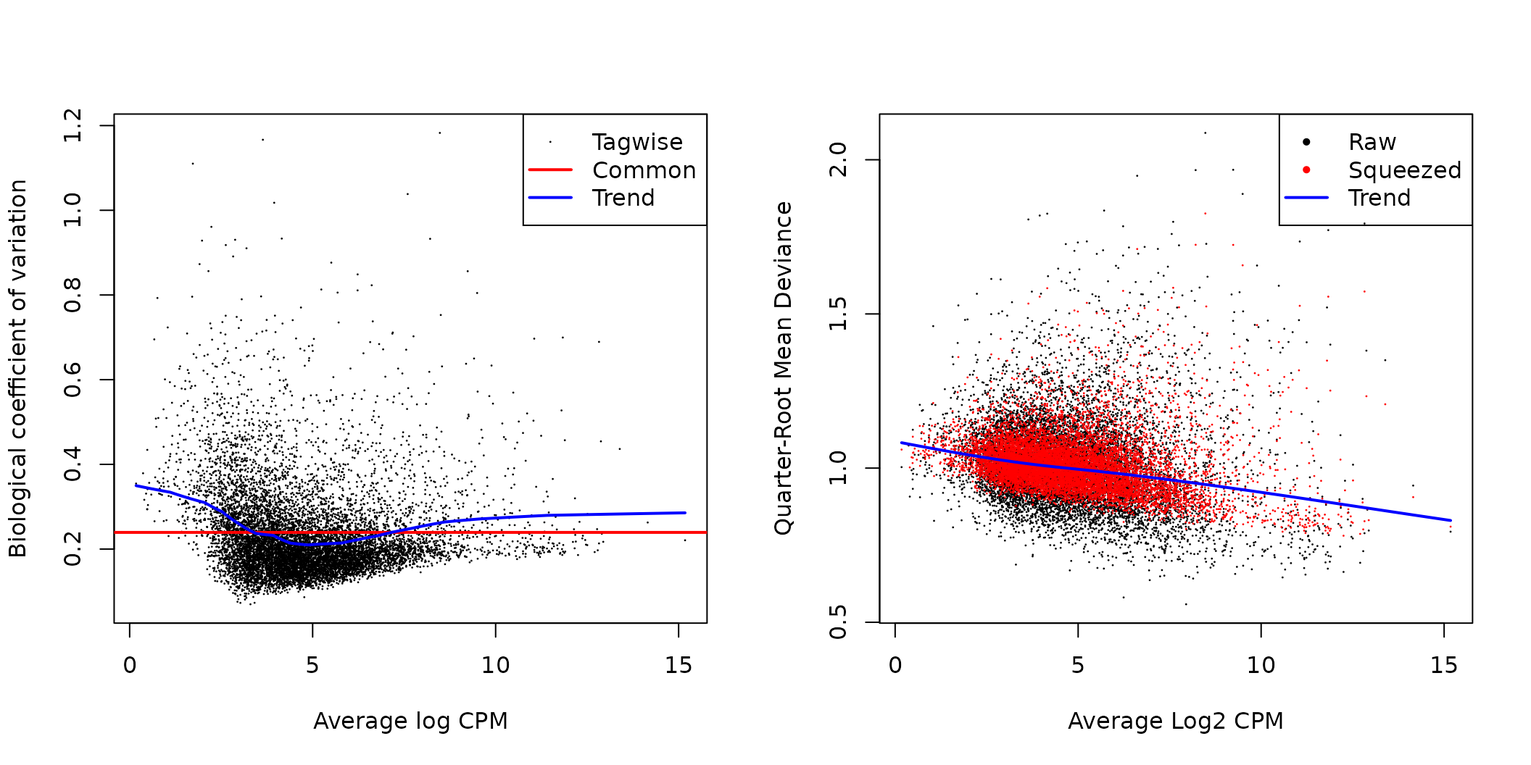
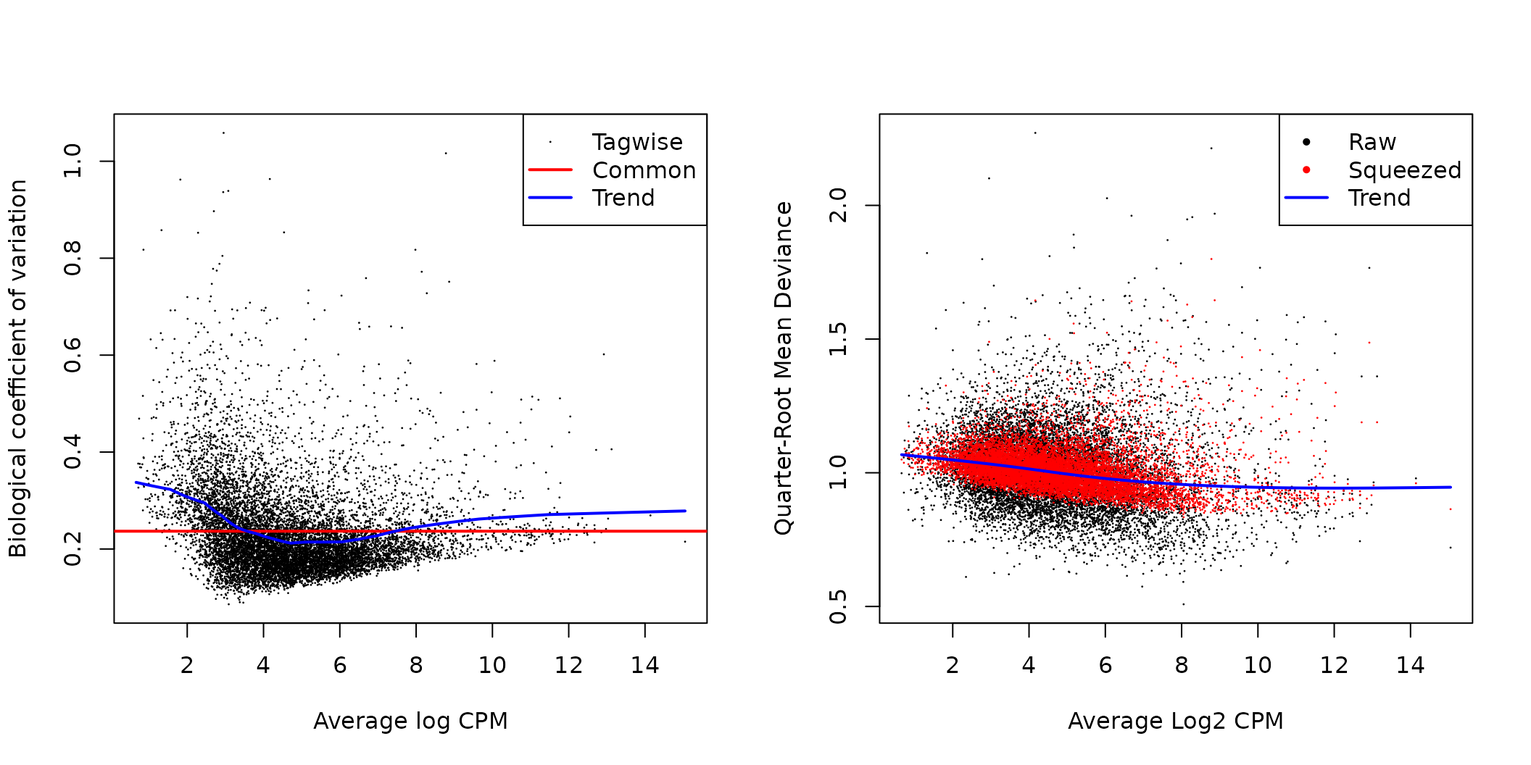
Deploying to gh-pages from  @ f5edb9699acd4cd2dddc85dbb320383b10131da0 🚀

diff --git a/articles/SingleCellWorkshop.html b/articles/SingleCellWorkshop.html
@@ -31,7 +31,7 @@
       </button>
       <span class="navbar-brand">
         <a class="navbar-link" href="../index.html">SingleCellWorkshop</a>
-        <span class="version label label-default" data-toggle="tooltip" data-placement="bottom" title="Released version">0.1.17</span>
+        <span class="version label label-default" data-toggle="tooltip" data-placement="bottom" title="Released version">0.1.18</span>
       </span>
     </div>
 
@@ -76,7 +76,7 @@
       Walter and Eliza Hall Institute of Medical Research, 1G Royal Parade, Parkville, VIC 3052, Melbourne, Australia<br><a class="author_email" href="mailto:#"></a><a href="mailto:yuchen@wehi.edu.au" class="email">yuchen@wehi.edu.au</a>
       </address>
                   
-            <h4 class="date">Aug 17, 2021</h4>
+            <h4 class="date">Aug 21, 2021</h4>
       
       <small class="dont-index">Source: <a href="https://github.com/yunshun/SingleCellWorkshop/blob/master/vignettes/SingleCellWorkshop.Rmd"><code>vignettes/SingleCellWorkshop.Rmd</code></a></small>
       <div class="hidden name"><code>SingleCellWorkshop.Rmd</code></div>
@@ -104,21 +104,20 @@
 <div id="downloading-the-read-counts" class="section level2">
 <h2 class="hasAnchor">
 <a href="#downloading-the-read-counts" class="anchor"></a>Downloading the read counts</h2>
-<p>In this workshop, we will be using five samples from this published study <span class="citation">(Pal et al. 2021)</span>. These five samples correspond to five individual patients with the following Ids: N1469, N0280, N1105, N0230 and N0123. The accession numbers of the five samples are GSM4909258, GSM4909255, GSM4909260, GSM4909264 and GSM4909267, respectively.</p>
+<p>In this workshop, we will be using four samples from this published study <span class="citation">(Pal et al. 2021)</span>. These four samples correspond to four individual patients with the following Ids: N1469, N0280, N0230 and N0123. The accession numbers of the four samples are GSM4909258, GSM4909255, GSM4909264 and GSM4909267, respectively.</p>
 <p>We first create a <code>Data</code> folder under the current working directory. Then we make five subfolders with the patient Ids as the folder names under the <code>Data</code> folder.</p>
 <div class="sourceCode" id="cb1"><pre class="downlit sourceCode r">
-<code class="sourceCode R"><span class="va">Samples</span> <span class="op">&lt;-</span> <span class="fu"><a href="https://rdrr.io/r/base/c.html">c</a></span><span class="op">(</span><span class="st">"N1469"</span>, <span class="st">"N0280"</span>, <span class="st">"N1105"</span>, <span class="st">"N0230"</span>, <span class="st">"N0123"</span><span class="op">)</span>
+<code class="sourceCode R"><span class="va">Samples</span> <span class="op">&lt;-</span> <span class="fu"><a href="https://rdrr.io/r/base/c.html">c</a></span><span class="op">(</span><span class="st">"N1469"</span>, <span class="st">"N0280"</span>, <span class="st">"N0230"</span>, <span class="st">"N0123"</span><span class="op">)</span>
 <span class="kw">for</span><span class="op">(</span><span class="va">i</span> <span class="kw">in</span> <span class="fl">1</span><span class="op">:</span><span class="fu"><a href="https://rdrr.io/r/base/length.html">length</a></span><span class="op">(</span><span class="va">Samples</span><span class="op">)</span><span class="op">)</span><span class="op">{</span>
     <span class="va">out_dir</span>  <span class="op">&lt;-</span> <span class="fu"><a href="https://rdrr.io/r/base/file.path.html">file.path</a></span><span class="op">(</span><span class="st">"Data"</span>, <span class="va">Samples</span><span class="op">[</span><span class="va">i</span><span class="op">]</span><span class="op">)</span>
     <span class="kw">if</span> <span class="op">(</span><span class="op">!</span><span class="fu"><a href="https://rdrr.io/r/base/files2.html">dir.exists</a></span><span class="op">(</span><span class="va">out_dir</span><span class="op">)</span><span class="op">)</span> <span class="fu"><a href="https://rdrr.io/r/base/files2.html">dir.create</a></span><span class="op">(</span><span class="va">out_dir</span>, recursive <span class="op">=</span> <span class="cn">TRUE</span><span class="op">)</span>
 <span class="op">}</span></code></pre></div>
-<p>The cellranger output of each sample consists of three data files: a count matrix in <em>mtx.gz</em> format, barcode information in <em>tsv.gz</em> format, and feature information in <em>tsv.gz</em>. We download the three data files from GEO for each of the five samples and store them in each of the subfolders accordingly.</p>
+<p>The cellranger output of each sample consists of three data files: a count matrix in <em>mtx.gz</em> format, barcode information in <em>tsv.gz</em> format, and feature information in <em>tsv.gz</em>. We download the three data files from GEO for each of the four samples and store them in each of the subfolders accordingly.</p>
 <div class="sourceCode" id="cb2"><pre class="downlit sourceCode r">
 <code class="sourceCode R"><span class="va">GSM</span> <span class="op">&lt;-</span> <span class="st">"https://ftp.ncbi.nlm.nih.gov/geo/samples/GSM4909nnn/"</span>
 <span class="va">url.matrix</span> <span class="op">&lt;-</span> <span class="fu"><a href="https://rdrr.io/r/base/paste.html">paste0</a></span><span class="op">(</span><span class="va">GSM</span>, 
     <span class="fu"><a href="https://rdrr.io/r/base/c.html">c</a></span><span class="op">(</span><span class="st">"GSM4909258/suppl/GSM4909258_N-NF-Epi-matrix.mtx.gz"</span>,
       <span class="st">"GSM4909255/suppl/GSM4909255_N-N280-Epi-matrix.mtx.gz"</span>, 
-      <span class="st">"GSM4909260/suppl/GSM4909260_N-N1105-Epi-matrix.mtx.gz"</span>,
       <span class="st">"GSM4909264/suppl/GSM4909264_N-N1B-Epi-matrix.mtx.gz"</span>,
       <span class="st">"GSM4909267/suppl/GSM4909267_N-MH0023-Epi-matrix.mtx.gz"</span><span class="op">)</span><span class="op">)</span>
 <span class="va">url.barcodes</span> <span class="op">&lt;-</span> <span class="fu"><a href="https://rdrr.io/r/base/grep.html">gsub</a></span><span class="op">(</span><span class="st">"matrix.mtx"</span>, <span class="st">"barcodes.tsv"</span>, <span class="va">url.matrix</span><span class="op">)</span>
@@ -407,9 +406,9 @@ Ternary plot positioning each cell according to the proportion of basal, LP, or 
 <div id="read-in-the-data-1" class="section level2">
 <h2 class="hasAnchor">
 <a href="#read-in-the-data-1" class="anchor"></a>Read in the data</h2>
-<p>We use 10X single cell RNA-seq profiles of normal epithelial cells from five individual human. We first read in the raw data of all five samples for the integration analysis.</p>
+<p>We use 10X single cell RNA-seq profiles of normal epithelial cells from four individual human. We first read in the raw data of all four samples for the integration analysis.</p>
 <div class="sourceCode" id="cb37"><pre class="downlit sourceCode r">
-<code class="sourceCode R"><span class="va">Samples</span> <span class="op">&lt;-</span> <span class="fu"><a href="https://rdrr.io/r/base/c.html">c</a></span><span class="op">(</span><span class="st">"N1469"</span>, <span class="st">"N0280"</span>, <span class="st">"N1105"</span>, <span class="st">"N0230"</span>, <span class="st">"N0123"</span><span class="op">)</span>
+<code class="sourceCode R"><span class="va">Samples</span> <span class="op">&lt;-</span> <span class="fu"><a href="https://rdrr.io/r/base/c.html">c</a></span><span class="op">(</span><span class="st">"N1469"</span>, <span class="st">"N0280"</span>, <span class="st">"N0230"</span>, <span class="st">"N0123"</span><span class="op">)</span>
 <span class="va">RawData</span> <span class="op">&lt;-</span> <span class="fu"><a href="https://rdrr.io/r/base/list.html">list</a></span><span class="op">(</span><span class="op">)</span>
 <span class="va">RawData</span><span class="op">[[</span><span class="fl">1</span><span class="op">]</span><span class="op">]</span> <span class="op">&lt;-</span> <span class="va">N1469.data</span>
 <span class="kw">for</span><span class="op">(</span><span class="va">i</span> <span class="kw">in</span> <span class="fl">2</span><span class="op">:</span><span class="fu"><a href="https://rdrr.io/r/base/length.html">length</a></span><span class="op">(</span><span class="va">Samples</span><span class="op">)</span><span class="op">)</span> <span class="op">{</span>
@@ -417,7 +416,7 @@ Ternary plot positioning each cell according to the proportion of basal, LP, or 
     <span class="fu"><a href="https://rdrr.io/r/base/colnames.html">colnames</a></span><span class="op">(</span><span class="va">RawData</span><span class="op">[[</span><span class="va">i</span><span class="op">]</span><span class="op">]</span><span class="op">)</span> <span class="op">&lt;-</span> <span class="fu"><a href="https://rdrr.io/r/base/paste.html">paste</a></span><span class="op">(</span><span class="va">Samples</span><span class="op">[</span><span class="va">i</span><span class="op">]</span>, <span class="fu"><a href="https://rdrr.io/r/base/colnames.html">colnames</a></span><span class="op">(</span><span class="va">RawData</span><span class="op">[[</span><span class="va">i</span><span class="op">]</span><span class="op">]</span><span class="op">)</span>, sep<span class="op">=</span><span class="st">"_"</span><span class="op">)</span>
 <span class="op">}</span>
 <span class="fu"><a href="https://rdrr.io/r/base/names.html">names</a></span><span class="op">(</span><span class="va">RawData</span><span class="op">)</span> <span class="op">&lt;-</span> <span class="va">Samples</span></code></pre></div>
-<p>Then we create a list of 5 Seurat objects (one for each human sample). The same cell filtering criteria is applied to all the samples.</p>
+<p>Then we create a list of four Seurat objects (one for each human sample). The same cell filtering criteria is applied to all the samples.</p>
 <div class="sourceCode" id="cb38"><pre class="downlit sourceCode r">
 <code class="sourceCode R"><span class="va">SeuratList</span> <span class="op">&lt;-</span> <span class="fu"><a href="https://rdrr.io/r/base/list.html">list</a></span><span class="op">(</span><span class="op">)</span>
 <span class="kw">for</span><span class="op">(</span><span class="va">i</span> <span class="kw">in</span> <span class="fl">1</span><span class="op">:</span><span class="fu"><a href="https://rdrr.io/r/base/length.html">length</a></span><span class="op">(</span><span class="va">Samples</span><span class="op">)</span><span class="op">)</span><span class="op">{</span>
@@ -472,18 +471,18 @@ UMAP visualization of the integrated data where cells are coloured by patient.
 <span class="va">NormEpi</span> <span class="op">&lt;-</span> <span class="fu"><a href="https://satijalab.org/seurat/reference/FindClusters.html">FindClusters</a></span><span class="op">(</span><span class="va">NormEpi</span>, resolution<span class="op">=</span><span class="fl">0.1</span><span class="op">)</span></code></pre></div>
 <pre><code>## Modularity Optimizer version 1.3.0 by Ludo Waltman and Nees Jan van Eck
 ## 
-## Number of nodes: 13644
-## Number of edges: 573287
+## Number of nodes: 8691
+## Number of edges: 364828
 ## 
 ## Running Louvain algorithm...
-## Maximum modularity in 10 random starts: 0.9645
+## Maximum modularity in 10 random starts: 0.9637
 ## Number of communities: 6
-## Elapsed time: 6 seconds</code></pre>
+## Elapsed time: 1 seconds</code></pre>
 <div class="sourceCode" id="cb46"><pre class="downlit sourceCode r">
 <code class="sourceCode R"><span class="fu"><a href="https://rdrr.io/r/base/table.html">table</a></span><span class="op">(</span><span class="fu"><a href="https://satijalab.org/seurat/reference/Idents.html">Idents</a></span><span class="op">(</span><span class="va">NormEpi</span><span class="op">)</span><span class="op">)</span></code></pre></div>
 <pre><code>## 
 ##    0    1    2    3    4    5 
-## 5526 5438 1979  419  214   68</code></pre>
+## 3896 2982 1221  352  176   64</code></pre>
 <p>The clustering results are shown in the UMAP plot below.</p>
 <div class="sourceCode" id="cb48"><pre class="downlit sourceCode r">
 <code class="sourceCode R"><span class="fu"><a href="https://satijalab.org/seurat/reference/DimPlot.html">DimPlot</a></span><span class="op">(</span><span class="va">NormEpi</span>, reduction <span class="op">=</span> <span class="st">"umap"</span>, label<span class="op">=</span><span class="cn">TRUE</span><span class="op">)</span></code></pre></div>
@@ -561,15 +560,13 @@ Ternary plot positioning each cell according to the proportion of basal, LP, or 
 <span class="fu"><a href="https://rdrr.io/r/base/table.html">table</a></span><span class="op">(</span><span class="va">sampClust</span><span class="op">)</span></code></pre></div>
 <pre><code>## sampClust
 ## N0123_Clst0 N0123_Clst1 N0123_Clst2 N0123_Clst3 N0123_Clst4 N0123_Clst5 N0230_Clst0 
-##         839        1563         358          12          49          19        1029 
+##         836        1565         359          13          47          20        1017 
 ## N0230_Clst1 N0230_Clst2 N0230_Clst3 N0230_Clst4 N0230_Clst5 N0280_Clst0 N0280_Clst1 
-##         562         139          78          33          16         346         392 
-## N0280_Clst2 N0280_Clst3 N0280_Clst4 N0280_Clst5 N1105_Clst0 N1105_Clst1 N1105_Clst2 
-##         302          39          44           3        1601        2465         771 
-## N1105_Clst3 N1105_Clst4 N1105_Clst5 N1469_Clst0 N1469_Clst1 N1469_Clst2 N1469_Clst3 
-##          80          35           1        1711         456         409         210 
-## N1469_Clst4 N1469_Clst5 
-##          53          29</code></pre>
+##         565         142          82          35          16         349         394 
+## N0280_Clst2 N0280_Clst3 N0280_Clst4 N0280_Clst5 N1469_Clst0 N1469_Clst1 N1469_Clst2 
+##         301          40          41           1        1694         458         419 
+## N1469_Clst3 N1469_Clst4 N1469_Clst5 
+##         217          53          27</code></pre>
 <p>We then form pseudo-bulk samples by aggregating the read counts for each gene by cluster-sample combination.</p>
 <div class="sourceCode" id="cb57"><pre class="downlit sourceCode r">
 <code class="sourceCode R"><span class="va">rawCounts</span> <span class="op">&lt;-</span> <span class="fu"><a href="https://rdrr.io/r/base/matrix.html">as.matrix</a></span><span class="op">(</span><span class="va">NormEpi</span><span class="op">@</span><span class="va">assays</span><span class="op">$</span><span class="va">RNA</span><span class="op">@</span><span class="va">counts</span><span class="op">)</span>
@@ -590,7 +587,7 @@ Ternary plot positioning each cell according to the proportion of basal, LP, or 
 <span class="fu"><a href="https://rdrr.io/r/base/table.html">table</a></span><span class="op">(</span><span class="va">keep.sample</span><span class="op">)</span></code></pre></div>
 <pre><code>## keep.sample
 ## FALSE  TRUE 
-##     2    28</code></pre>
+##     2    22</code></pre>
 <div class="sourceCode" id="cb61"><pre class="downlit sourceCode r">
 <code class="sourceCode R"><span class="va">y</span> <span class="op">&lt;-</span> <span class="va">y</span><span class="op">[</span>,<span class="va">keep.sample</span><span class="op">]</span></code></pre></div>
 <p>The gene filtering is performed by the <code>filterByExpr</code> function in edgeR.</p>
@@ -599,7 +596,7 @@ Ternary plot positioning each cell according to the proportion of basal, LP, or 
 <span class="fu"><a href="https://rdrr.io/r/base/table.html">table</a></span><span class="op">(</span><span class="va">keep.gene</span><span class="op">)</span></code></pre></div>
 <pre><code>## keep.gene
 ## FALSE  TRUE 
-##  8955 10274</code></pre>
+##  7099 10701</code></pre>
 <div class="sourceCode" id="cb64"><pre class="downlit sourceCode r">
 <code class="sourceCode R"><span class="va">y</span> <span class="op">&lt;-</span> <span class="va">y</span><span class="op">[</span><span class="va">keep.gene</span>,,keep<span class="op">=</span><span class="cn">FALSE</span><span class="op">]</span></code></pre></div>
 </div>
@@ -611,34 +608,28 @@ Ternary plot positioning each cell according to the proportion of basal, LP, or 
 <code class="sourceCode R"><span class="va">y</span> <span class="op">&lt;-</span> <span class="fu"><a href="https://rdrr.io/pkg/edgeR/man/calcNormFactors.html">calcNormFactors</a></span><span class="op">(</span><span class="va">y</span><span class="op">)</span>
 <span class="va">y</span><span class="op">$</span><span class="va">samples</span></code></pre></div>
 <pre><code>##             group lib.size norm.factors Patient
-## N0123_Clst0     0  4250653        0.908   N0123
-## N0123_Clst1     1  5908620        1.052   N0123
-## N0123_Clst2     2   914352        0.906   N0123
-## N0123_Clst4     4   162664        1.184   N0123
-## N0123_Clst5     5   155062        1.210   N0123
-## N0230_Clst0     0  4251771        0.982   N0230
-## N0230_Clst1     1  1930372        1.108   N0230
-## N0230_Clst2     2   418705        1.061   N0230
-## N0230_Clst3     3   216976        1.149   N0230
-## N0230_Clst4     4   107137        1.277   N0230
-## N0230_Clst5     5    81688        1.624   N0230
-## N0280_Clst0     0  3772988        0.740   N0280
-## N0280_Clst1     1  2029941        1.082   N0280
-## N0280_Clst2     2  1342851        0.913   N0280
-## N0280_Clst3     3   188352        0.996   N0280
-## N0280_Clst4     4   219343        1.197   N0280
-## N0280_Clst5     5    55428        1.218   N0280
-## N1105_Clst0     0 18414657        0.750   N1105
-## N1105_Clst1     1 15687217        0.968   N1105
-## N1105_Clst2     2  3680521        0.779   N1105
-## N1105_Clst3     3   430315        0.899   N1105
-## N1105_Clst4     4   220814        1.176   N1105
-## N1469_Clst0     0 10510089        0.727   N1469
-## N1469_Clst1     1  2259472        0.886   N1469
-## N1469_Clst2     2  1715710        0.842   N1469
-## N1469_Clst3     3  1169207        0.790   N1469
-## N1469_Clst4     4   261270        0.994   N1469
-## N1469_Clst5     5   260898        1.085   N1469</code></pre>
+## N0123_Clst0     0  4231706        0.921   N0123
+## N0123_Clst1     1  5928347        1.036   N0123
+## N0123_Clst2     2   923732        0.867   N0123
+## N0123_Clst4     4   160151        1.097   N0123
+## N0123_Clst5     5   162483        1.143   N0123
+## N0230_Clst0     0  4147705        1.114   N0230
+## N0230_Clst1     1  1981193        1.142   N0230
+## N0230_Clst2     2   436826        1.060   N0230
+## N0230_Clst3     3   232687        1.106   N0230
+## N0230_Clst4     4   115897        1.200   N0230
+## N0230_Clst5     5   104431        1.470   N0230
+## N0280_Clst0     0  3781624        0.730   N0280
+## N0280_Clst1     1  2062210        1.007   N0280
+## N0280_Clst2     2  1354519        0.867   N0280
+## N0280_Clst3     3   190398        1.040   N0280
+## N0280_Clst4     4   204584        1.165   N0280
+## N1469_Clst0     0 10372641        0.866   N1469
+## N1469_Clst1     1  2303963        0.933   N1469
+## N1469_Clst2     2  1818339        0.831   N1469
+## N1469_Clst3     3  1203015        0.774   N1469
+## N1469_Clst4     4   249112        0.879   N1469
+## N1469_Clst5     5   250260        1.041   N1469</code></pre>
 </div>
 <div id="data-exploration" class="section level2">
 <h2 class="hasAnchor">
@@ -662,8 +653,8 @@ MDS plots of the pseudo-bulk samples.
 <div class="sourceCode" id="cb68"><pre class="downlit sourceCode r">
 <code class="sourceCode R"><span class="va">design</span> <span class="op">&lt;-</span> <span class="fu"><a href="https://rdrr.io/r/stats/model.matrix.html">model.matrix</a></span><span class="op">(</span><span class="op">~</span> <span class="fl">0</span> <span class="op">+</span> <span class="va">Cluster</span> <span class="op">+</span> <span class="va">Patient</span><span class="op">)</span>
 <span class="fu"><a href="https://rdrr.io/r/base/colnames.html">colnames</a></span><span class="op">(</span><span class="va">design</span><span class="op">)</span></code></pre></div>
-<pre><code>##  [1] "Cluster0"     "Cluster1"     "Cluster2"     "Cluster3"     "Cluster4"    
-##  [6] "Cluster5"     "PatientN0280" "PatientN1105" "PatientN0230" "PatientN0123"</code></pre>
+<pre><code>## [1] "Cluster0"     "Cluster1"     "Cluster2"     "Cluster3"     "Cluster4"    
+## [6] "Cluster5"     "PatientN0280" "PatientN0230" "PatientN0123"</code></pre>
 </div>
 <div id="dispersion-estimation" class="section level2">
 <h2 class="hasAnchor">
@@ -703,7 +694,6 @@ edgeR BCV and quasi-likelihood dispersion plots.
 ## Cluster4         -0.2     -0.2     -0.2     -0.2      1.0     -0.2
 ## Cluster5         -0.2     -0.2     -0.2     -0.2     -0.2      1.0
 ## PatientN0280      0.0      0.0      0.0      0.0      0.0      0.0
-## PatientN1105      0.0      0.0      0.0      0.0      0.0      0.0
 ## PatientN0230      0.0      0.0      0.0      0.0      0.0      0.0
 ## PatientN0123      0.0      0.0      0.0      0.0      0.0      0.0</code></pre>
 <p>We then perform quasi-likelihood F-test under each contrast. In order to focus on genes with strong DE signal, we test for the differences above a fold-change threshold of 1.3. This is done by calling the <code>glmTreat</code> function in edgeR. The results of all the tests are stored as a list of <code>DGELRT</code> objects.</p>
@@ -718,34 +708,34 @@ edgeR BCV and quasi-likelihood dispersion plots.
 <span class="fu"><a href="https://rdrr.io/r/base/colnames.html">colnames</a></span><span class="op">(</span><span class="va">dtest</span><span class="op">)</span> <span class="op">&lt;-</span> <span class="fu"><a href="https://rdrr.io/r/base/colnames.html">colnames</a></span><span class="op">(</span><span class="va">contr</span><span class="op">)</span>
 <span class="va">dtest</span></code></pre></div>
 <pre><code>##        Cluster0 Cluster1 Cluster2 Cluster3 Cluster4 Cluster5
-## Down        454      970     1703     1106     1600      637
-## NotSig     8025     6847     6321     7558     7178     9113
-## Up         1795     2457     2250     1610     1496      524</code></pre>
+## Down        494      896     1463      823     1190      415
+## NotSig     9155     7577     7059     8317     8090     9701
+## Up         1052     2228     2179     1561     1421      585</code></pre>
 <p>We can view the top DE results using the <code>topTags</code> function. For example, to see the top 20 DE genes of cluster 2 vs all the other clusters, we use the following line.</p>
 <div class="sourceCode" id="cb77"><pre class="downlit sourceCode r">
 <code class="sourceCode R"><span class="fu"><a href="https://rdrr.io/pkg/edgeR/man/topTags.html">topTags</a></span><span class="op">(</span><span class="va">test</span><span class="op">$</span><span class="va">Cluster2</span>, n<span class="op">=</span><span class="fl">20L</span><span class="op">)</span></code></pre></div>
 <pre><code>## Coefficient:  -0.2*Cluster0 -0.2*Cluster1 1*Cluster2 -0.2*Cluster3 -0.2*Cluster4 -0.2*Cluster5 
 ##          logFC unshrunk.logFC logCPM   PValue      FDR
-## ACTG2     7.81           7.82   9.22 1.33e-25 1.36e-21
-## SERPINB5  6.28           6.30   6.55 1.13e-24 5.83e-21
-## KRT5      6.28           6.28   8.99 2.08e-24 7.13e-21
-## DLL1      5.40           5.42   5.94 7.71e-24 1.98e-20
-## DKK3      5.72           5.73   6.70 1.24e-23 2.56e-20
-## CD200     6.18           6.21   6.50 2.29e-23 3.91e-20
-## TPM2      5.71           5.72   8.27 2.67e-23 3.91e-20
-## CCND2     6.25           6.31   5.67 2.04e-22 2.62e-19
-## TNS4      5.05           5.07   6.24 9.05e-22 1.03e-18
-## GPC1      4.73           4.73   6.29 1.53e-21 1.57e-18
-## KRT14     7.14           7.14  10.86 1.87e-21 1.74e-18
-## NRP2      5.98           6.02   6.06 4.28e-21 3.60e-18
-## COL17A1   8.91          16.14   5.32 4.55e-21 3.60e-18
-## OXTR      5.45           5.46   6.23 6.57e-21 4.82e-18
-## CAV1      4.83           4.83   8.31 7.15e-21 4.90e-18
-## FAM126A   4.48           4.50   5.84 1.01e-20 6.49e-18
-## MSRB3     5.31           5.34   5.37 1.24e-20 7.52e-18
-## ACTA2     6.00           6.00   8.46 1.90e-20 1.09e-17
-## TUBB2B    4.45           4.45   7.58 2.78e-20 1.50e-17
-## DST       3.83           3.83   8.71 3.95e-20 2.03e-17</code></pre>
+## ACTG2     7.81           7.82   9.28 2.04e-23 2.18e-19
+## SERPINB5  6.50           6.52   6.72 4.21e-22 2.25e-18
+## DKK3      5.68           5.70   6.89 6.88e-22 2.45e-18
+## DLL1      5.81           5.83   6.16 2.74e-21 6.44e-18
+## KRT5      6.45           6.45   8.93 3.01e-21 6.44e-18
+## TNS4      5.24           5.26   6.34 1.14e-20 2.04e-17
+## CD200     6.47           6.50   6.68 1.51e-20 2.31e-17
+## CCND2     6.44           6.55   5.73 2.53e-20 3.39e-17
+## OXTR      5.71           5.74   6.50 3.82e-20 4.55e-17
+## TPM2      5.82           5.83   8.25 4.34e-20 4.64e-17
+## MYLK      6.43           6.48   6.49 6.16e-20 6.00e-17
+## KRT14     7.54           7.54  11.02 1.46e-19 1.31e-16
+## DST       3.96           3.96   8.83 1.97e-19 1.62e-16
+## FAM126A   4.69           4.72   5.90 5.24e-19 4.00e-16
+## TUBB2B    4.30           4.30   7.71 6.84e-19 4.88e-16
+## COL17A1   9.72          21.77   5.19 1.13e-18 7.58e-16
+## MSRB3     5.57           5.61   5.30 1.31e-18 7.98e-16
+## LAMA3     6.26           9.73   6.35 1.34e-18 7.98e-16
+## PPP1R3C   6.63           6.69   5.77 2.19e-18 1.23e-15
+## ACTA2     5.97           5.98   8.57 3.47e-18 1.86e-15</code></pre>
 <p>We can extract the top 15 marker genes (up-regulated only) of each cluster as follows.</p>
 <div class="sourceCode" id="cb79"><pre class="downlit sourceCode r">
 <code class="sourceCode R"><span class="va">top</span> <span class="op">&lt;-</span> <span class="fl">15</span>
@@ -801,7 +791,7 @@ Heat map of the top marker genes.
 ## 
 ## other attached packages:
 ## [1] pheatmap_1.0.12    edgeR_3.35.0       limma_3.49.4       vcd_1.4-8         
-## [5] SeuratObject_4.0.2 Seurat_4.0.3      
+## [5] SeuratObject_4.0.2 Seurat_4.0.4      
 ## 
 ## loaded via a namespace (and not attached):
 ##   [1] Rtsne_0.15            colorspace_2.0-2      deldir_0.2-10        
@@ -809,12 +799,12 @@ Heat map of the top marker genes.
 ##   [7] fs_1.5.0              spatstat.data_2.1-0   farver_2.1.0         
 ##  [10] leiden_0.3.9          listenv_0.8.0         ggrepel_0.9.1        
 ##  [13] RSpectra_0.16-0       fansi_0.5.0           codetools_0.2-18     
-##  [16] splines_4.1.0         cachem_1.0.5          knitr_1.33           
+##  [16] splines_4.1.0         cachem_1.0.6          knitr_1.33           
 ##  [19] polyclip_1.10-0       jsonlite_1.7.2        ica_1.0-2            
 ##  [22] cluster_2.1.2         png_0.1-7             uwot_0.1.10          
 ##  [25] shiny_1.6.0           sctransform_0.3.2     spatstat.sparse_2.0-0
 ##  [28] compiler_4.1.0        httr_1.4.2            Matrix_1.3-4         
-##  [31] fastmap_1.1.0         lazyeval_0.2.2        later_1.2.0          
+##  [31] fastmap_1.1.0         lazyeval_0.2.2        later_1.3.0          
 ##  [34] htmltools_0.5.1.1     tools_4.1.0           igraph_1.2.6         
 ##  [37] gtable_0.3.0          glue_1.4.2            RANN_2.6.1           
 ##  [40] reshape2_1.4.4        dplyr_1.0.7           Rcpp_1.0.7           
@@ -835,14 +825,14 @@ Heat map of the top marker genes.
 ##  [85] purrr_0.3.4           tensor_1.5            labeling_0.4.2       
 ##  [88] patchwork_1.1.1       htmlwidgets_1.5.3     cowplot_1.1.1        
 ##  [91] tidyselect_1.1.1      parallelly_1.27.0     RcppAnnoy_0.0.19     
-##  [94] plyr_1.8.6            magrittr_2.0.1        R6_2.5.0             
+##  [94] plyr_1.8.6            magrittr_2.0.1        R6_2.5.1             
 ##  [97] generics_0.1.0        withr_2.4.2           mgcv_1.8-36          
 ## [100] pillar_1.6.2          fitdistrplus_1.1-5    survival_3.2-12      
 ## [103] abind_1.4-5           tibble_3.1.3          future.apply_1.8.1   
 ## [106] crayon_1.4.1          KernSmooth_2.23-20    utf8_1.2.2           
 ## [109] spatstat.geom_2.2-2   plotly_4.9.4.1        rmarkdown_2.10       
 ## [112] locfit_1.5-9.4        data.table_1.14.0     digest_0.6.27        
-## [115] xtable_1.8-4          tidyr_1.1.3           httpuv_1.6.1         
+## [115] xtable_1.8-4          tidyr_1.1.3           httpuv_1.6.2         
 ## [118] textshaping_0.3.5     munsell_0.5.0         viridisLite_0.4.0    
 ## [121] bslib_0.2.5.1</code></pre>
 </div>

diff --git a/404.html b/404.html
@@ -71,7 +71,7 @@
       </button>
       <span class="navbar-brand">
         <a class="navbar-link" href="https://yunshun.github.io/SingleCellWorkshop/index.html">SingleCellWorkshop</a>
-        <span class="version label label-default" data-toggle="tooltip" data-placement="bottom" title="Released version">0.1.17</span>
+        <span class="version label label-default" data-toggle="tooltip" data-placement="bottom" title="Released version">0.1.18</span>
       </span>
     </div>
 

diff --git a/articles/index.html b/articles/index.html
@@ -71,7 +71,7 @@
       </button>
       <span class="navbar-brand">
         <a class="navbar-link" href="../index.html">SingleCellWorkshop</a>
-        <span class="version label label-default" data-toggle="tooltip" data-placement="bottom" title="Released version">0.1.17</span>
+        <span class="version label label-default" data-toggle="tooltip" data-placement="bottom" title="Released version">0.1.18</span>
       </span>
     </div>
 

diff --git a/reference/index.html b/reference/index.html
@@ -71,7 +71,7 @@
       </button>
       <span class="navbar-brand">
         <a class="navbar-link" href="../index.html">SingleCellWorkshop</a>
-        <span class="version label label-default" data-toggle="tooltip" data-placement="bottom" title="Released version">0.1.17</span>
+        <span class="version label label-default" data-toggle="tooltip" data-placement="bottom" title="Released version">0.1.18</span>
       </span>
     </div>
 

diff --git a/LICENSE-text.html b/LICENSE-text.html
@@ -71,7 +71,7 @@
       </button>
       <span class="navbar-brand">
         <a class="navbar-link" href="index.html">SingleCellWorkshop</a>
-        <span class="version label label-default" data-toggle="tooltip" data-placement="bottom" title="Released version">0.1.17</span>
+        <span class="version label label-default" data-toggle="tooltip" data-placement="bottom" title="Released version">0.1.18</span>
       </span>
     </div>
 

diff --git a/LICENSE.html b/LICENSE.html
@@ -71,7 +71,7 @@
       </button>
       <span class="navbar-brand">
         <a class="navbar-link" href="index.html">SingleCellWorkshop</a>
-        <span class="version label label-default" data-toggle="tooltip" data-placement="bottom" title="Released version">0.1.17</span>
+        <span class="version label label-default" data-toggle="tooltip" data-placement="bottom" title="Released version">0.1.18</span>
       </span>
     </div>
 

diff --git a/authors.html b/authors.html
@@ -71,7 +71,7 @@
       </button>
       <span class="navbar-brand">
         <a class="navbar-link" href="index.html">SingleCellWorkshop</a>
-        <span class="version label label-default" data-toggle="tooltip" data-placement="bottom" title="Released version">0.1.17</span>
+        <span class="version label label-default" data-toggle="tooltip" data-placement="bottom" title="Released version">0.1.18</span>
       </span>
     </div>
 

diff --git a/index.html b/index.html
@@ -32,7 +32,7 @@
       </button>
       <span class="navbar-brand">
         <a class="navbar-link" href="index.html">SingleCellWorkshop</a>
-        <span class="version label label-default" data-toggle="tooltip" data-placement="bottom" title="Released version">0.1.17</span>
+        <span class="version label label-default" data-toggle="tooltip" data-placement="bottom" title="Released version">0.1.18</span>
       </span>
     </div>
 
